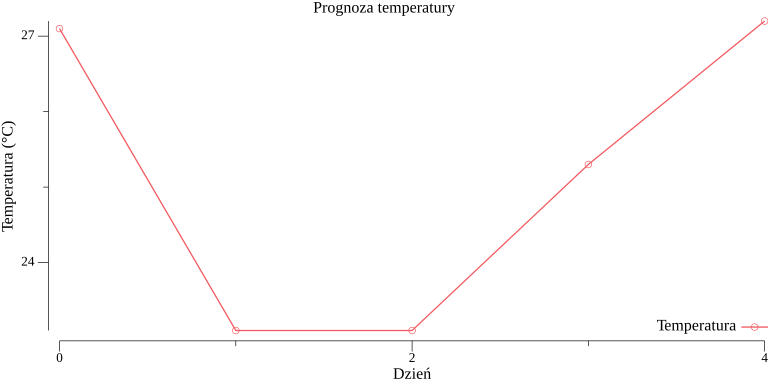
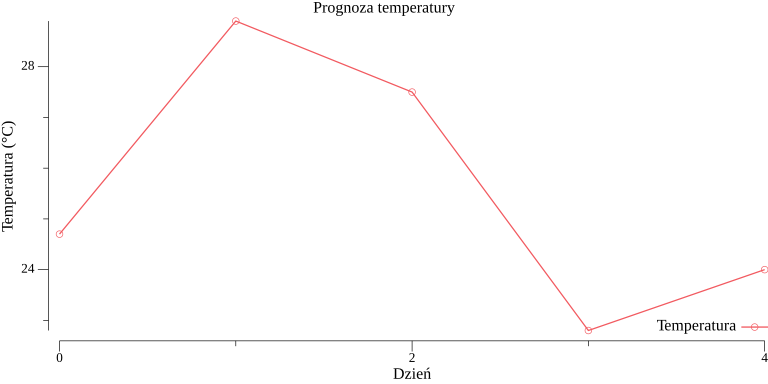
Refactor main in lab_07

diff --git a/lab_07/cmd/weather.go b/lab_07/cmd/weather.go
@@ -2,6 +2,7 @@ package main
 
 import (
 	"encoding/json"
+	"flag"
 	"fmt"
 	"os"
 	"weather-cli/api"
@@ -11,43 +12,52 @@ import (
 	"github.com/olekukonko/tablewriter"
 )
 
+var (
+	aktualnaCmd = flag.NewFlagSet("aktualna", flag.ExitOnError)
+	prognozaCmd = flag.NewFlagSet("prognoza", flag.ExitOnError)
+	historiaCmd = flag.NewFlagSet("historia", flag.ExitOnError)
+)
+
 func main() {
-	if len(os.Args) < 3 {
-		fmt.Println("Użycie:")
-		fmt.Println("  pogoda aktualna <miasto>")
-		fmt.Println("  pogoda prognoza <miasto> [dni]")
-		fmt.Println("  pogoda historia <miasto> [data]")
-		return
+	if len(os.Args) < 2 {
+		fmt.Println("oczekiwano podkomendy: aktualna, prognoza lub historia")
+		os.Exit(1)
 	}
 
-	komenda := os.Args[1]
-	miasto := os.Args[2]
-	var dni int
-	var data string
-
-	if komenda == "prognoza" && len(os.Args) > 3 {
-		dni = utils.ParseInt(os.Args[3], 3)
-	}
-	if komenda == "historia" && len(os.Args) > 3 {
-		data = os.Args[3]
-	}
-
-	lat, lon, err := utils.CityToCoords(miasto)
-	if err != nil {
-		fmt.Println("Nie znaleziono miasta:", miasto)
-		return
-	}
-
-	switch komenda {
+	switch os.Args[1] {
 	case "aktualna":
+		miasto := aktualnaCmd.String("miasto", "", "Nazwa miasta")
+		aktualnaCmd.Parse(os.Args[2:])
+		if *miasto == "" {
+			fmt.Println("Użycie: pogoda aktualna -miasto=<miasto>")
+			return
+		}
+		lat, lon, err := utils.CityToCoords(*miasto)
+		if err != nil {
+			fmt.Println("Nie znaleziono miasta:", *miasto)
+			return
+		}
 		weather, err := api.GetCurrentWeather(lat, lon)
 		if err != nil {
 			fmt.Println("Błąd pobierania danych pogodowych:", err)
 			return
 		}
 		PrintWeatherTable([]models.WeatherData{weather})
+
 	case "prognoza":
-		forecast, err := api.GetForecast(lat, lon, dni)
+		miasto := prognozaCmd.String("miasto", "", "Nazwa miasta")
+		dni := prognozaCmd.Int("dni", 3, "Liczba dni prognozy")
+		prognozaCmd.Parse(os.Args[2:])
+		if *miasto == "" {
+			fmt.Println("Użycie: pogoda prognoza -miasto=<miasto> [-dni=<dni>]")
+			return
+		}
+		lat, lon, err := utils.CityToCoords(*miasto)
+		if err != nil {
+			fmt.Println("Nie znaleziono miasta:", *miasto)
+			return
+		}
+		forecast, err := api.GetForecast(lat, lon, *dni)
 		if err != nil {
 			fmt.Println("Błąd pobierania prognozy:", err)
 			return
@@ -55,15 +65,30 @@ func main() {
 		PrintWeatherTable(forecast)
 		AnalyzeForecast(forecast)
 		utils.PlotForecast(forecast)
+
 	case "historia":
-		history, err := api.GetHistory(lat, lon, data)
+		miasto := historiaCmd.String("miasto", "", "Nazwa miasta")
+		data := historiaCmd.String("data", "", "Data historyczna")
+		historiaCmd.Parse(os.Args[2:])
+		if *miasto == "" || *data == "" {
+			fmt.Println("Użycie: pogoda historia -miasto=<miasto> -data=<YYYY-MM-DD>")
+			return
+		}
+		lat, lon, err := utils.CityToCoords(*miasto)
+		if err != nil {
+			fmt.Println("Nie znaleziono miasta:", *miasto)
+			return
+		}
+		history, err := api.GetHistory(lat, lon, *data)
 		if err != nil {
 			fmt.Println("Błąd pobierania danych historycznych:", err)
 			return
 		}
 		PrintWeatherTable(history)
+
 	default:
-		fmt.Println("Nieznana komenda:", komenda)
+		fmt.Println("Nieznana komenda:", os.Args[1])
+		os.Exit(1)
 	}
 }
 
